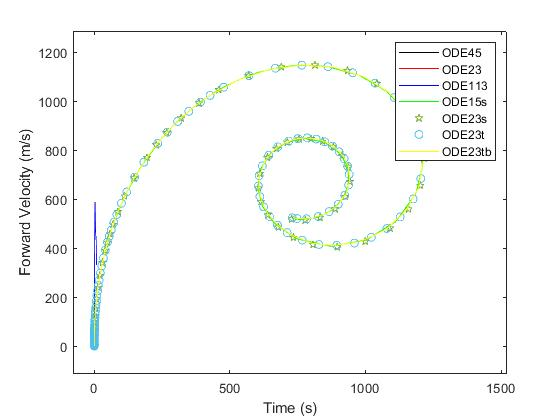
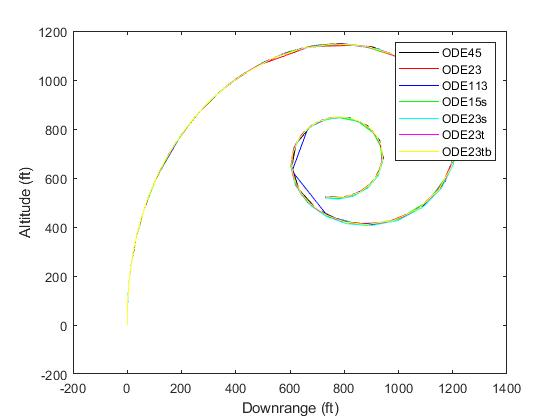
Changed some color schemes in ODE_Testing

diff --git a/Rocket Simulation (Extracted from original rocket team code)/ODE_Testing.m b/Rocket Simulation (Extracted from original rocket team code)/ODE_Testing.m
@@ -70,8 +70,8 @@ opts = odeset('stats','on','reltol',1.e-4);
 %
 figure(1)
 plot(y0(:,1),-y0(:,2),'k',y1(:,1),-y1(:,2),'r',y2(:,1),-y2(:,2),'b' ...
-    ,y3(:,1),-y3(:,2),'g',y4(:,1),-y4(:,2),'p' ...
-    ,y5(:,1),-y5(:,2),'o',y6(:,1),-y6(:,2),'y');
+    ,y3(:,1),-y3(:,2),'g',y4(:,1),-y4(:,2),'c' ...
+    ,y5(:,1),-y5(:,2),'m',y6(:,1),-y6(:,2),'y');
 xlabel('Downrange (ft)');
 ylabel('Altitude (ft)');
 legend('ODE45','ODE23','ODE113','ODE15s','ODE23s','ODE23t','ODE23tb');
@@ -81,8 +81,8 @@ legend('ODE45','ODE23','ODE113','ODE15s','ODE23s','ODE23t','ODE23tb');
 %
 figure(2)
 plot(t0,y0(:,3),'k',t1,y1(:,3),'r',t2,y2(:,3),'b' ...
-    ,y3(:,1),-y3(:,2),'g',y4(:,1),-y4(:,2),'p' ...
-    ,y5(:,1),-y5(:,2),'o',y6(:,1),-y6(:,2),'y');
+    ,y3(:,1),-y3(:,2),'g',y4(:,1),-y4(:,2),'c' ...
+    ,y5(:,1),-y5(:,2),'m',y6(:,1),-y6(:,2),'y');
 xlabel('Time (s)');
 ylabel('Forward Velocity (m/s)');
 legend('ODE45','ODE23','ODE113','ODE15s','ODE23s','ODE23t','ODE23tb');
